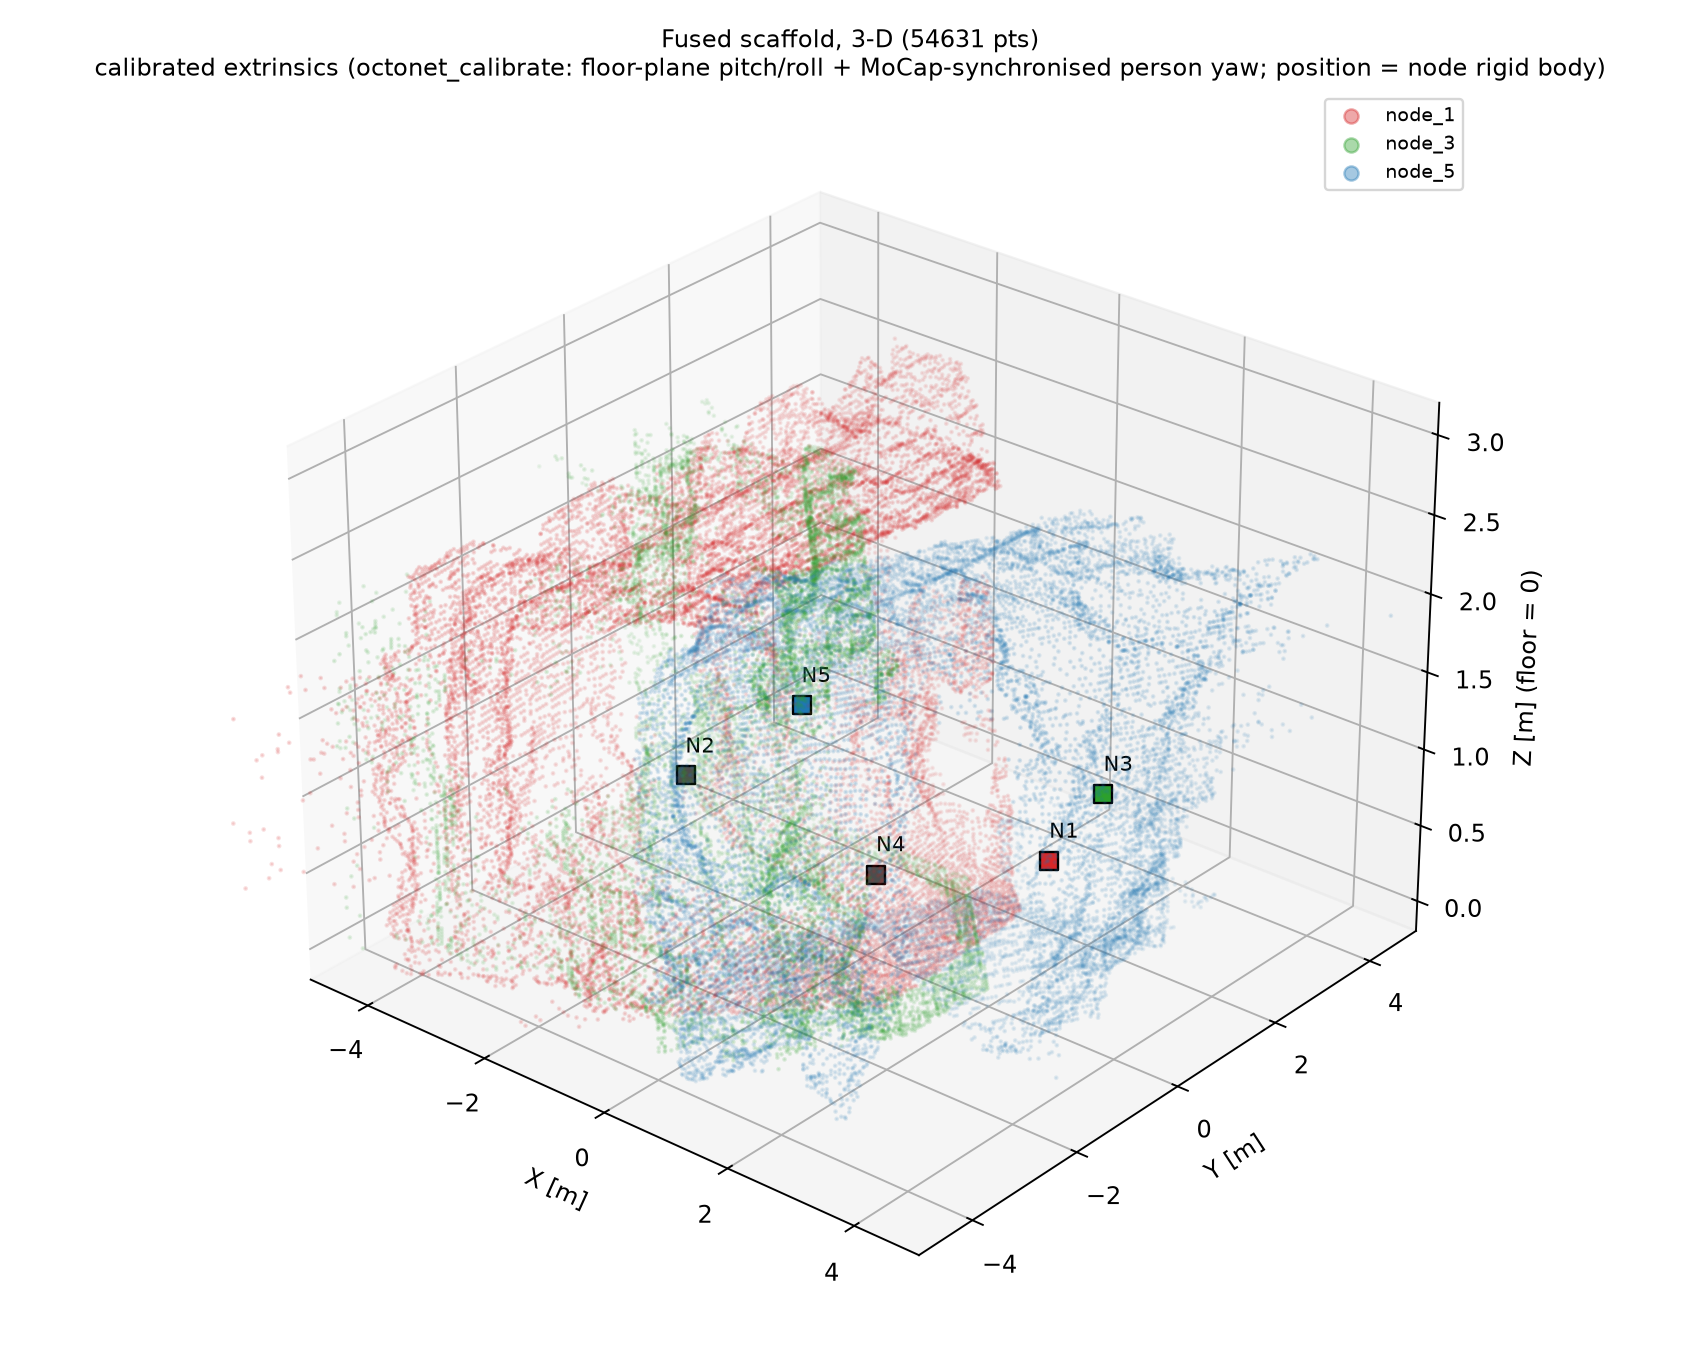
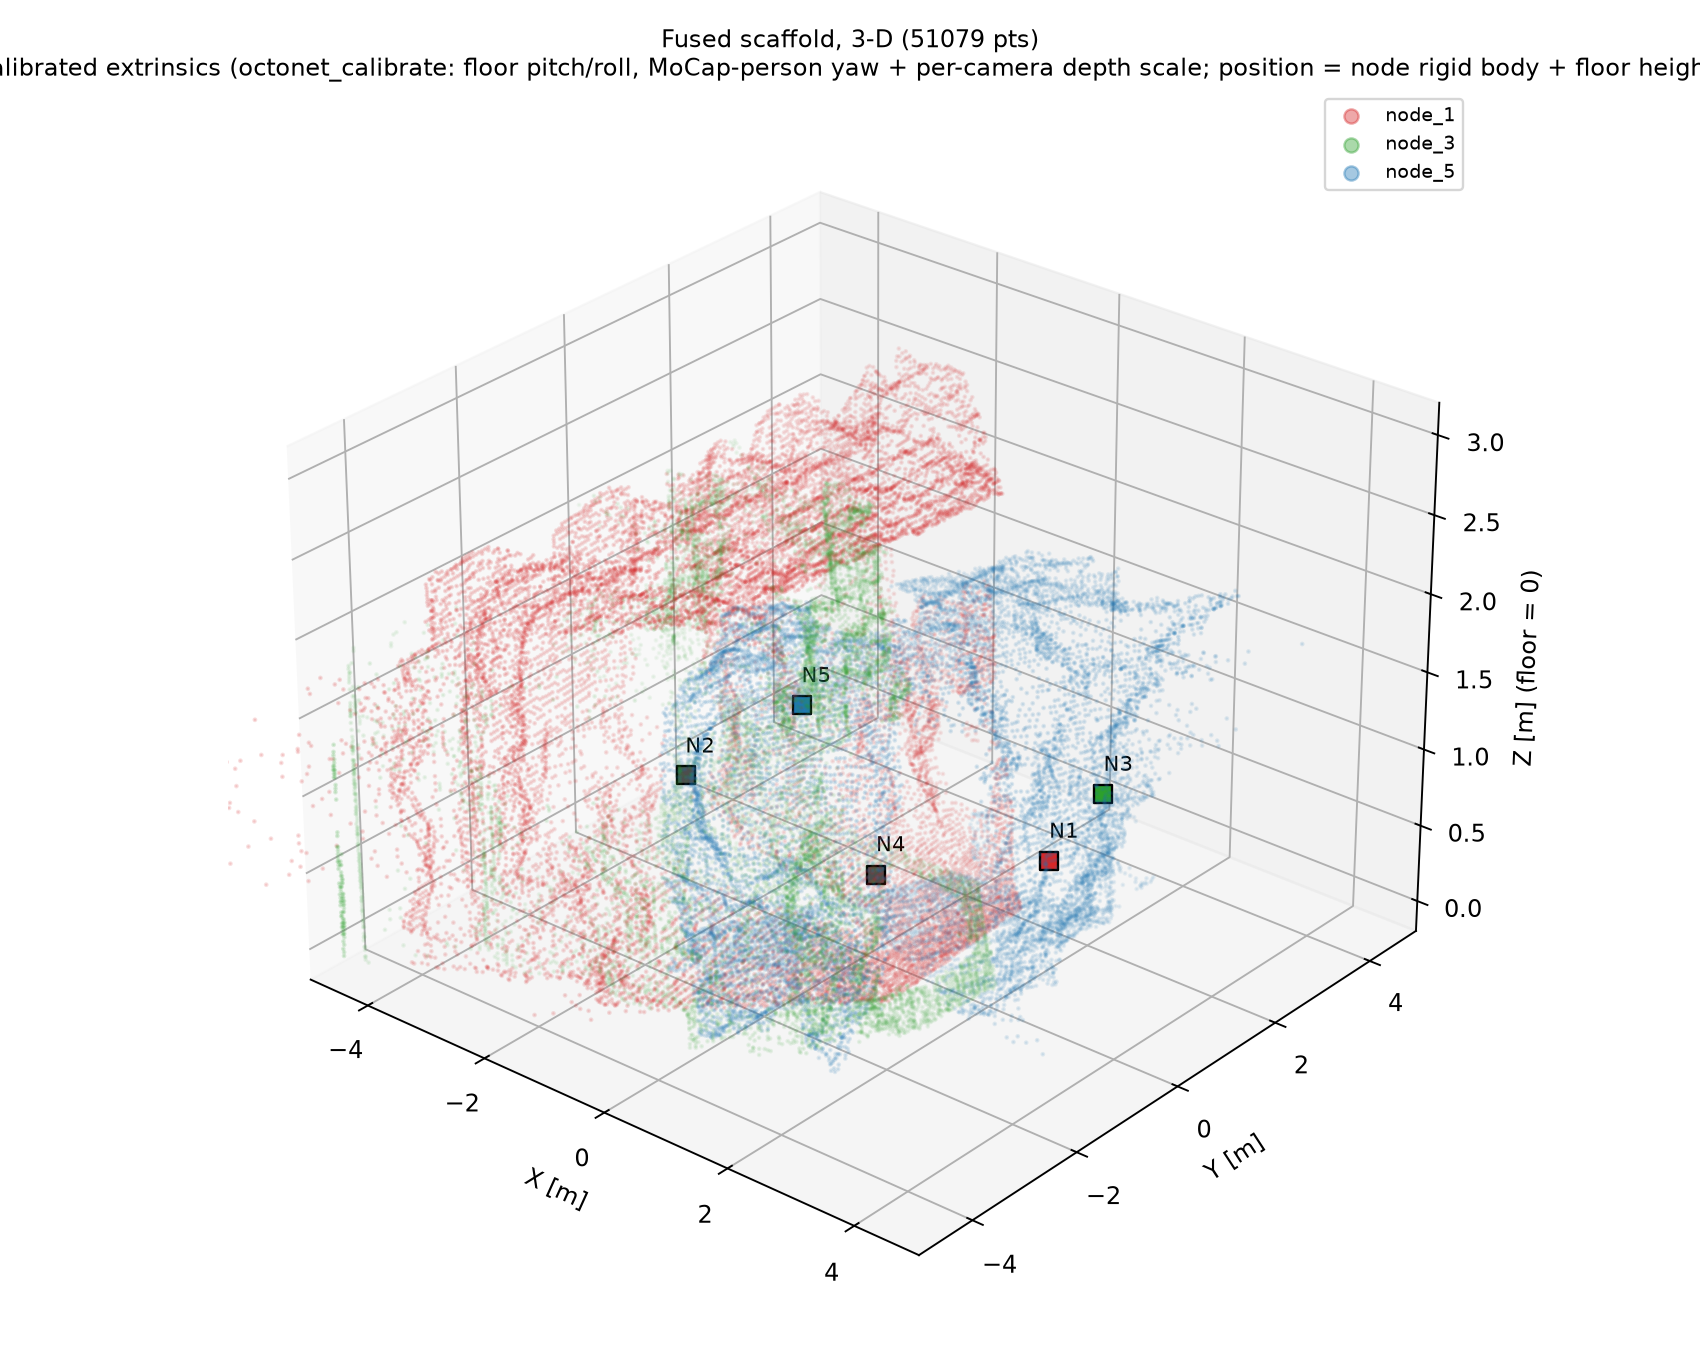
calibration v3 results: per-camera depth scale (walls confirm), figures regenerated; SFCW target documented; calibration figure text

Changed region(s): [[0.1871, 0.2471, 0.7794, 0.8029], [0.0, 0.0309, 0.9976, 0.0618]]

diff --git a/nbs/preprocessing/octonet_calibrate.py b/nbs/preprocessing/octonet_calibrate.py
@@ -390,8 +390,10 @@ def figure(sol: dict, clouds_as: dict, clouds_cal: dict, ov_as, ov_cal, out_png:
         ax.set_xlim(-7, 7); ax.set_ylim(-7, 7); ax.set_xlabel("X [m]"); ax.set_ylabel("Y [m]")
         ax.set_title(f"fused top-down, {lab}\nmedian NN dist: " + ", ".join(f"{k} {v['median_nn_m']:.2f} m" for k, v in ov.items()), fontsize=9)
     ax = axs[2, 2]; ax.axis("off")
-    txt = "\n".join(f"node_{n}: yaw {sol[n]['yaw_deg']:7.1f} (assumed {sol[n]['yaw_assumed_deg']:7.1f}) pitch {sol[n]['pitch_deg']:+5.1f} roll {sol[n]['roll_deg']:+5.1f} | floor h {sol[n]['floor_height_m']:.2f} vs z {sol[n]['node_marker_z_m']:.2f} | range ratio {sol[n]['range_cam_over_world']:.3f}" for n in NODES)
-    ax.text(0, 0.95, "octonet_calibrate summary (deg, m)\n" + txt + "\n\nPosition = node rigid body (camera offset from the marker centroid ignored).\nIntrinsics nominal D455; depth 8-bit 0-10 m.", va="top", family="monospace", fontsize=9)
+    txt = "\n".join(f"node_{n}: yaw {sol[n]['yaw_deg']:7.1f} (assumed {sol[n]['yaw_assumed_deg']:7.1f}) pitch {sol[n]['pitch_deg']:+5.1f} roll {sol[n]['roll_deg']:+5.1f} | depth scale {sol[n].get('depth_scale', 1.0):.3f} | floor h {sol[n]['floor_height_m']:.2f} vs marker z {sol[n]['node_marker_z_m']:.2f} -> z off {sol[n].get('offset_z_m', 0.0):+.2f}" for n in NODES)
+    ax.text(0, 0.95, "octonet_calibrate summary (deg, m)\n" + txt + "\n\nPosition = node rigid body + vertical offset from the floor; horizontal camera-marker offset unobservable (0).\n"
+            "Depth scale per camera from the person range (body surface = MoCap hip - 0.12 m), cross-checked by the walls two cameras share.\n"
+            "Range check = surface range / hip range after the scale (expected ~0.96). Intrinsics nominal D455; depth 8-bit 0-10 m x scale.", va="top", family="monospace", fontsize=8.5)
     fig.suptitle("OctoNet Scene 1 RGB-D extrinsics: floor plane -> pitch/roll, MoCap-synchronised person -> yaw", fontsize=13)
     fig.tight_layout(); fig.savefig(out_png, dpi=150); plt.close(fig)
 

diff --git a/viz/README.md b/viz/README.md
@@ -10,16 +10,31 @@ ignored); the Vayyar/UWB on node_1 share node_1's camera yaw by assumption. WiFi
 are schematic from paper Fig. 2(a) (±0.5 m). Depth = 8-bit PNG × 10 m/255 with nominal D455 intrinsics.
 Vayyar SFCW shows the static scene only: the person is not recoverable (WRITE_UP #19).
 
-| node | yaw (deg) | assumed yaw | yaw spread | pitch | roll | floor height vs marker z | range check cam/world |
+| node | yaw (deg) | assumed yaw | yaw spread | pitch | roll | depth scale | floor height vs marker z |
 |---|---|---|---|---|---|---|---|
-| 1 | −179.1 | −179.8 | ±0.2 | −1.7 | +1.6 | 0.94 / 0.90 m | 0.989 |
-| 3 | −136.3 | −144.8 | ±0.4 | −1.8 | +0.3 | 0.92 / 0.93 m | 1.035 |
-| 5 | −25.0 | −29.7 | ±0.9 | +3.1 | +0.7 | 0.96 / 0.89 m | 1.101 |
+| 1 | −179.1 | −179.8 | ±0.2 | −1.6 | +1.7 | 1.027 | 0.92 / 0.90 m |
+| 3 | −136.6 | −144.8 | ±1.2 | −2.3 | +0.3 | 1.075 | 0.87 / 0.93 m |
+| 5 | −25.0 | −29.7 | ±0.9 | +2.6 | +0.7 | 1.167 | 0.84 / 0.89 m |
 
-Cross-camera median nearest-neighbour distance, assumed → calibrated: 1–5 0.33 → 0.06 m, 3–5 0.31 → 0.11 m,
-1–3 0.14 → 0.17 m. ICP of nodes 3/5 onto node 1 asks for 13° / 0.3 m and 7° / 2.8 m (walls are ambiguous)
-and is reported in `extrinsics.json` but NOT applied. Node 5 reads ranges 10 % long: a camera-to-marker
-offset or a per-camera depth scale; open item.
+**Depth scale (resolves the node-5 "10 % long" item).** The person blob is the camera-facing body surface,
+~0.12 m in front of the MoCap hip; with that correction the person gives an absolute per-camera depth scale
+(measured = scale × true). The walls two cameras share confirm it is a scale, not a camera-to-marker offset:
+node 5's boresight is along +X, so an offset cannot move the −Y wall, yet that wall sat 0.65 m further for
+node 5 than for node 3 before the scale and 1 cm apart after it (−3.46 vs −3.47 m); nodes 1 and 3 put the −X
+wall at −3.52 / −3.41 m. Likely cause: per-node 8-bit depth encoding with different max distances. Cross-camera
+median nearest-neighbour distance now: 1–5 0.08 m, 3–5 0.10 m, 1–3 0.20 m. A landmark approach (the other
+nodes as range targets) was tried and rejected: the detections were background clutter
+(`calibration_v2.png`, kept as the record). Horizontal camera-to-marker offsets remain unobservable (set 0).
+
+**SFCW static target (`nbs/method/sfcw_target.py`, figure `render_vs_gt/sfcw_static_target.png`).** The
+objective is the clutter-guarded temporal-mean channel: bins 0–5 and the last 6 masked, log|range profile|
+per pair minus its guarded-band median, L1 against the render, weighted per bin by the cross-recording
+correlation of |rp| (median 0.87, min 0.74 at 1.2–2.5 m over 5 Scene-1 activities, so the static target is
+recording-invariant and is pooled: `sfcw_target_S1/target_pool5.npz`). Mean-channel SNR 22–38 dB (median 28),
+weakest at 1.3–2.3 m. The residual is slow drift, not frame noise: lag-1 autocorrelation 0.7, linear decay over
+~28 s, effective independent frames ≈ 4.4 of 283, so split-half tests on interleaved frames are uninformative
+(0.996) and only the cross-recording reliability is a usable weight. Use `kind='ra'` only once the pair order /
+Tx pitch assumptions are verified (mount-yaw check).
 
 ## nodes/ — node layout + sensor availability
 - `nodes_topdown_2d.png` — top-down plan: measured nodes 1–5 (with heights), subject spot, 4.1 m sensing square (assumed centred), schematic WiFi Tx/Rx-1..4 + obstacle, D455 87° FoV wedges (nodes 1/3/5), Vayyar R_max 3.71 m arc.
@@ -37,13 +52,14 @@ offset or a per-camera depth scale; open item.
 - `captions.txt`
 
 ## render_vs_gt/ — measured vs rendered
-- `sfcw_gt_vs_rendered.png` — GT: clutter-removed static range profile (bins 0–5 and the last 6 guarded), residual time–range map, static RA. Rendered: `sfcw_forward.render_sfcw_pairs` on the scaffold (Vayyar array at node_1, uniform ITU concrete). GT is coupling/sidelobe dominated (peak 0.22 m); rendered peaks at the nearest floor (0.75 m). Nothing at 2.92 m in either, as expected. Pair order tx-major + uniform Tx pitch are assumptions (azimuth only).
+- `sfcw_gt_vs_rendered.png` — GT: clutter-removed static range profile (bins 0–5 and the last 6 guarded), residual time–range map, static RA. Rendered: `sfcw_forward.render_sfcw_pairs` on the calibrated scaffold (Vayyar array at node_1, uniform ITU concrete). GT is coupling/sidelobe dominated (peak 0.22 m). Nothing at 2.92 m in either, as expected. Pair order tx-major + uniform Tx pitch are assumptions (azimuth only).
+- `sfcw_static_target.png` — the SFCW target definition: split halves, per-bin reliability / SNR, pooled vs single recording, residual autocorrelation.
 - `uwb_gt_vs_rendered.png` — GT CIR vs range (bin 0.64 cm; the per-recording pickle holds ONE 1535-bin frame). Rendered = PROTOTYPE incoherent pulse-sum, not a 4DPS head (pending).
 - `wifi_gt_vs_rendered.png` — per receiver: GT |CSI| (frame + temporal mean, both antennas) and CIR; rendered `wifi_forward.render_csi` with schematic Tx/Rx. GT notches are HT40 null/pilot subcarriers; 40 MHz gives 7.5 m taps, so only the first 1–2 are informative. Rx-4 (NLOS) GT is not visibly suppressed.
 - `captions.txt`
 
 ## Open items these figures expose
-1. `octonet_calibrate` v2: solve the camera-to-marker offset (node 5's 10 % range ratio) and the radar/UWB mount orientation on node_1 (currently = camera yaw by assumption); consider a joint wall-alignment refinement with a sane prior instead of free ICP.
-2. SFCW: the static return beyond the coupling sits near the per-frame noise floor (residual −1.2 dB vs mean); the SFCW objective must be the temporal-mean channel, clutter-guarded.
+1. Radar/UWB mount orientation on node_1 (currently = camera yaw by assumption): see `mount_yaw_sweep.png` once produced.
+2. SFCW drift: the per-recording temporal mean is biased by up to a few dB at 1.2–2.5 m by thermal drift; a per-pair gain/phase ramp model would raise the usable SNR there.
 3. UWB head (pulse PSF) and a real UWB frame stream (only one frame per recording was found — check other recordings / the raw HF files).
 4. WiFi: HT40 null/pilot mask before any loss; Tx/Rx positions need measuring.

diff --git a/CLAUDE.md b/CLAUDE.md
@@ -51,8 +51,12 @@ velocity field and micro-Doppler loss are NOT used (see `docs/prompts/port_4dps_
   Camera orientations are calibrated by `nbs/preprocessing/octonet_calibrate.py` (floor plane → pitch/roll,
   MoCap-synchronised person → yaw; yaw spread < 1°; results in `viz/README.md`). `octonet_scene.camera_pose`
   returns the calibrated pose when `$NBS_DATA_OUT/calib_S1/extrinsics.json` exists (copy in `nbs/assets/`),
-  else the look-at-origin assumption; figure titles must print `pose_source()`. The radar/UWB on node_1 share
-  the camera yaw by assumption; the camera-to-marker offset is ignored (node 5 reads 10 % long).
+  else the look-at-origin assumption; figure titles must print `pose_source()`. Each camera has a **depth scale**
+  (measured = scale × true: 1.027 / 1.075 / 1.167 for nodes 1/3/5, from the person range with the body-surface
+  correction, confirmed by shared walls): always decode depth with `octonet_scene.load_depth_m_calibrated(png, node)`.
+  Horizontal camera-to-marker offsets are unobservable (0). The subject walks IN PLACE: motion foregrounds are empty.
+- SFCW objective = `nbs/method/sfcw_target.py` (clutter-guarded temporal-mean channel, pooled over recordings,
+  per-bin cross-recording reliability; residual is drift with n_eff ≈ 4 frames). Details in `viz/README.md`.
 - RGB-D: depth PNGs are **8-bit, linear 0–10 m** (3.9 cm/level; OctoNet `png_to_depth(0,10)`), 640×480,
   ~30 Hz, nodes 1/3/5. The RGB .mp4 is NOT shipped (only cut-window json/txt). No intrinsics shipped
   (nominal D455 87°×58°). Per-node clip stamps differ by ~1 s: resolve paths via `cut_manual.csv`
